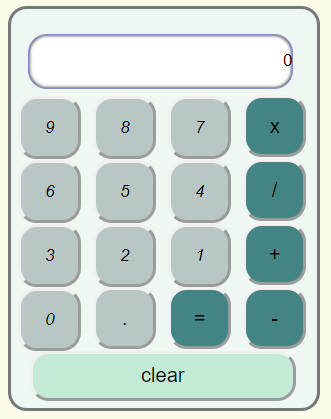
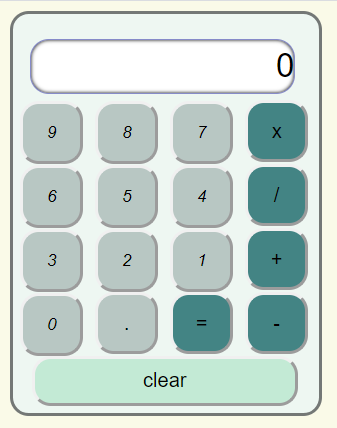
changed font-size for input

diff --git a/index.css b/index.css
@@ -18,11 +18,12 @@ input {
   display: flex;
   box-shadow: inset 0px 0px 3px 0px black;
   cursor: pointer;
-  text-align: right;
+  text-align: end;
   border-radius: 15px;
   margin-left: 14px;
   margin-bottom: 5px;
   font-size: 26px;
+
 }
 
 .numbers {
